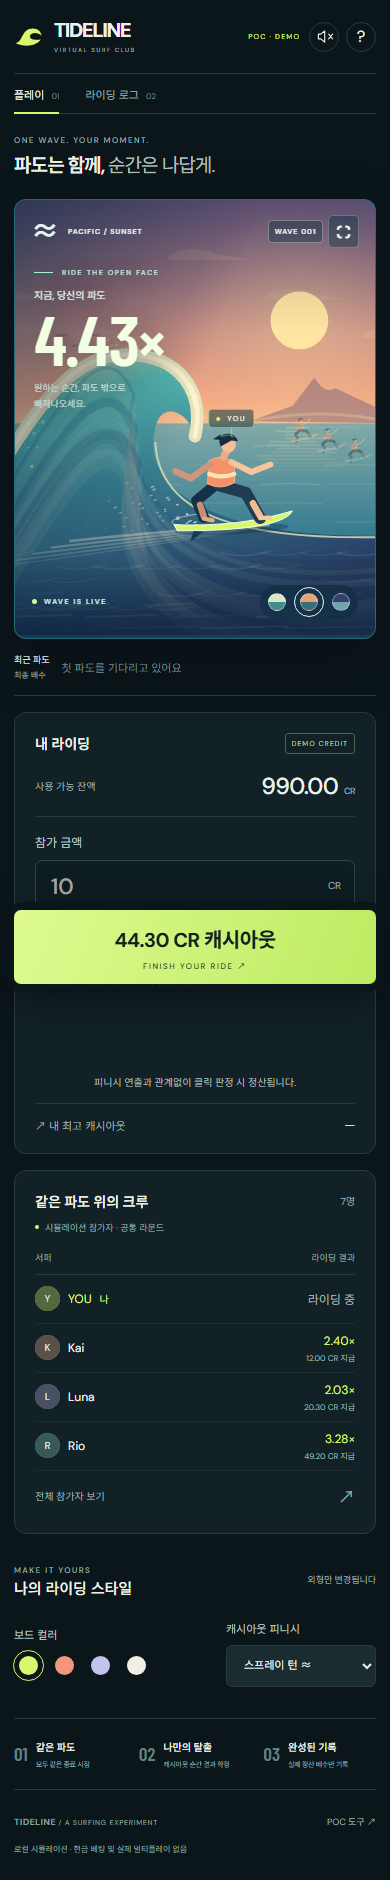
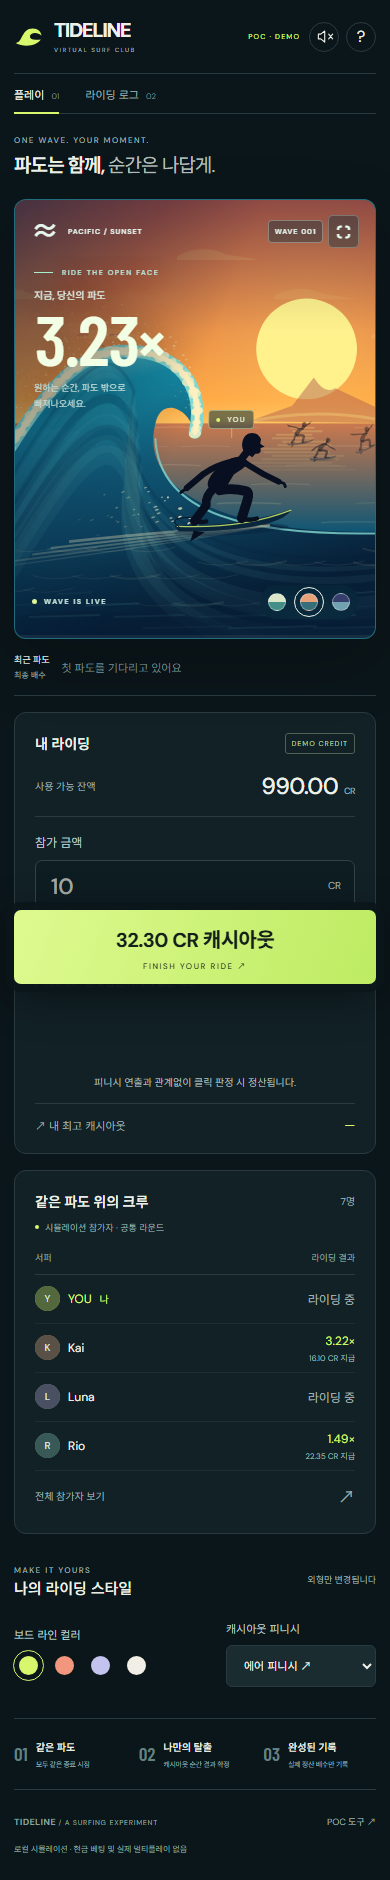
Style surfers as silhouettes against a vivid sunset

diff --git a/src/side-scroll-scene.js b/src/side-scroll-scene.js
@@ -4,7 +4,7 @@ const ease = x => { const t = clamp(x); return t * t * (3 - 2 * t); };
 const mod = (x, n) => ((x % n) + n) % n;
 const themes = {
   daybreak: { sky: '#486e83', haze: '#edc99c', sun: '#fff0bb', sea: '#57b5b4', crest: '#a4efd8', face: '#2cbdac', mid: '#137e8c', deep: '#073c57', foam: '#edffe9', island: '#486f79' },
-  sunset: { sky: '#795c83', haze: '#f4ab85', sun: '#ffe4a2', sea: '#83aaa8', crest: '#e4e6b9', face: '#57b9b0', mid: '#387e91', deep: '#273b62', foam: '#fff1d1', island: '#79647c' },
+  sunset: { sky: '#bc4c42', haze: '#ffa13c', sun: '#fff18c', sea: '#cb794e', crest: '#82d9d1', face: '#168ca5', mid: '#105674', deep: '#071d36', foam: '#fff1bf', island: '#b6624d' },
   moonlight: { sky: '#172a4b', haze: '#577c9b', sun: '#d9f7ec', sea: '#396d91', crest: '#95dfe3', face: '#3b9fbc', mid: '#235d86', deep: '#0d2849', foam: '#d7f8fa', island: '#2b4767' }
 };
 
@@ -13,7 +13,7 @@ export class OceanScene {
   constructor(canvas, label) {
     this.canvas = canvas; this.label = label; this.ctx = canvas.getContext('2d', { alpha: false });
     canvas.dataset.renderer = 'canvas';
-    this.theme = 'daybreak'; this.board = '#d8f76d'; this.finish = 'air';
+    this.theme = 'sunset'; this.board = '#d8f76d'; this.finish = 'air';
     this.cashoutAt = -Infinity; this.crashAt = -Infinity; this.crewFinishTimes = new Map();
     this.motionQuery = matchMedia('(prefers-reduced-motion: reduce)');
     this.reducedMotion = this.motionQuery.matches;
@@ -91,7 +91,7 @@ export class OceanScene {
   drawSky(p, t) {
     const c = this.ctx, w = this.width, h = this.height;
     c.fillStyle = this.gradient(0, 0, 0, h * .61, [[0, p.sky], [.75, p.haze], [1, p.sun]]); c.fillRect(0, 0, w, h);
-    const sunX = w * .79, sunY = h * .275, radius = h * .066;
+    const sunX = w * .81, sunY = h * .34, radius = h * (this.theme === 'sunset' ? .115 : .066);
     const glow = c.createRadialGradient(sunX, sunY, radius, sunX, sunY, radius * 4);
     glow.addColorStop(0, p.sun + '38'); glow.addColorStop(1, p.sun + '00'); c.fillStyle = glow; c.fillRect(0, 0, w, h * .6);
     this.ellipse(sunX, sunY, radius, radius, p.sun);
@@ -153,13 +153,20 @@ export class OceanScene {
     c.restore(); c.globalAlpha = 1;
     const crest = [['moveTo', -w * .10, h * .69], ['bezierCurveTo', w * .06, h * .455, w * .17, h * .34, w * .32, h * .35], ['bezierCurveTo', w * .45, h * .35, w * .53, h * .43, w * .50, h * .535]];
     c.lineCap = 'round'; this.path(crest, null, p.crest, h * .029); this.path(crest, null, p.foam, h * .011);
-    // Wind-blown crest spray. Seeded positions make captures deterministic.
-    for (let i = 0; i < 65; i++) {
-      const u = i / 64, age = mod(i * .371 + t * .48, 1);
-      const x = w * (.04 + u * .45) - age * w * .045;
-      const y = h * (.35 + .70 * (u - .62) ** 2) - Math.sin(age * Math.PI) * h * (.018 + i % 4 * .008);
-      c.globalAlpha = (1 - age) * .55;
-      this.ellipse(x, y, 1 + i % 3 * .6, .7 + i % 2, p.foam, -.3);
+    // Broken foam follows the crest; the brighter flying droplets catch the sunset.
+    const point = (a, b, d, e, u) => (1-u)**3*a + 3*(1-u)**2*u*b + 3*(1-u)*u*u*d + u**3*e;
+    for (let i = 0; i < 110; i++) {
+      const u = i < 75 ? i / 74 : (i - 75) / 34;
+      const xx = i < 75 ? point(-.10, .06, .17, .32, u) : point(.32, .45, .53, .50, u);
+      const yy = i < 75 ? point(.69, .455, .34, .35, u) : point(.35, .35, .43, .535, u);
+      const age = mod(i * .371 + t * .48, 1);
+      const size = 1.8 + i % 5 * .65;
+      c.globalAlpha = .72;
+      this.ellipse(w * xx, h * yy + Math.sin(i * 4.1) * 2, size * 1.4, size, p.foam, -.3);
+      for (let j = 0; j < 2; j++) {
+        c.globalAlpha = (1 - age) * (.60 - j * .15);
+        this.ellipse(w * xx - age * (14 + j * 16), h * yy - Math.sin(age * Math.PI) * (12 + i % 7 * 4 + j * 13), .6 + i % 3 * .45, .6 + i % 2 * .3, p.foam);
+      }
     }
     c.globalAlpha = .8;
     this.path([['moveTo', w * .39, h * .55], ['bezierCurveTo', w * .40, h * .72, w * .64, h * .775, w * 1.05, h * .765]], null, p.crest, 2);
@@ -202,29 +209,31 @@ export class OceanScene {
     c.restore();
   }
   drawSurfer(x, y, scale, board, t, style, progress) {
-    const c = this.ctx, air = style === 'air';
-    const angle = air ? -Math.sin(progress * Math.PI) * .65 : style === 'spray' ? Math.sin(progress * Math.PI) * .35 : -.035 + Math.sin(t * 1.6) * .018;
+    const c = this.ctx, air = style === 'air', ink = '#080f20';
+    const angle = air ? -Math.sin(progress * Math.PI) * .65 : style === 'spray' ? Math.sin(progress * Math.PI) * .35 : -.045 + Math.sin(t * 1.6) * .018;
     c.save(); c.translate(x, y); c.rotate(angle); c.scale(scale, scale); c.lineCap = 'round'; c.lineJoin = 'round';
-    if (!air) this.ellipse(0, 9, 53, 5, '#052c4455');
-    // Profile board: upturned nose, coloured rail, fin and trailing leash.
-    this.path([['moveTo', -53, 2], ['quadraticCurveTo', 5, 8, 57, -5], ['quadraticCurveTo', 46, 13, -50, 8], ['closePath']], board, '#ecffe4', 1);
-    this.path([['moveTo', -35, 9], ['lineTo', -39, 19], ['lineTo', -26, 10]], '#123c52');
-    this.path([['moveTo', -48, 4], ['quadraticCurveTo', -69, -3, -27, -7]], null, '#e0efe6aa', .8);
-    this.path([['moveTo', -11, -34], ['lineTo', -31, -19], ['lineTo', -25, -3]], null, '#153148', 10);
-    this.path([['moveTo', -9, -32], ['lineTo', 15, -24], ['lineTo', 27, 0]], null, '#203c51', 11);
-    this.path([['moveTo', -28, -15], ['lineTo', -25, -4]], null, '#c98d70', 6);
-    this.path([['moveTo', 21, -14], ['lineTo', 27, -2]], null, '#f1bc91', 6);
-    this.path([['moveTo', -25, -2], ['lineTo', -17, 0]], null, '#dfaa87', 4);
-    this.path([['moveTo', 27, 0], ['lineTo', 36, 0]], null, '#f6c7a0', 4);
-    this.path([['moveTo', -18, -55], ['quadraticCurveTo', -6, -62, 6, -52], ['lineTo', 5, -34], ['quadraticCurveTo', -8, -27, -20, -34], ['closePath']], '#f49169', '#ffc39a', .7);
-    this.path([['moveTo', -18, -43], ['quadraticCurveTo', -7, -38, 5, -42]], null, '#ffe4b4', 4);
-    this.path([['moveTo', -17, -52], ['lineTo', -35, air ? -61 : -40], ['lineTo', -49, air ? -70 : -47]], null, '#ce967b', 6);
-    this.path([['moveTo', 3, -53], ['lineTo', 21, air ? -56 : -43], ['lineTo', 39, air ? -69 : -49]], null, '#f8c49c', 5.5);
-    this.path([['moveTo', -4, -58], ['lineTo', 0, -65]], null, '#eaae87', 7);
-    this.ellipse(1, -70, 7, 8, '#f5c096', -.15);
-    this.path([['moveTo', -6, -68], ['bezierCurveTo', -12, -81, 7, -84, 10, -72], ['lineTo', 4, -73], ['lineTo', -2, -70], ['closePath']], '#172d40');
-    this.path([['moveTo', -5, -74], ['lineTo', -13, -75], ['lineTo', -6, -79]], '#172d40');
-    this.path([['moveTo', -4, -77], ['quadraticCurveTo', 2, -80, 6, -76]], null, '#688084', 1);
+    if (!air) this.ellipse(0, 9, 53, 5, '#051c3655');
+    // Board remains a dark shape. A thin coloured rail preserves customisation.
+    this.path([['moveTo', -53, 2], ['quadraticCurveTo', 9, 7, 57, -7], ['quadraticCurveTo', 44, 13, -49, 8], ['closePath']], '#0a263c');
+    c.globalAlpha *= .8;
+    this.path([['moveTo', -50, 3], ['quadraticCurveTo', 10, 9, 56, -6]], null, board, 1.15);
+    c.globalAlpha /= .8;
+    this.path([['moveTo', -35, 8], ['lineTo', -39, 18], ['lineTo', -25, 10]], ink);
+    this.path([['moveTo', -48, 4], ['quadraticCurveTo', -62, -7, -31, -4]], null, ink, .8);
+    // One silhouette: low hips, forward lean and asymmetric bent knees.
+    this.path([['moveTo', -13, -31], ['quadraticCurveTo', -23, -24, -22, -15], ['lineTo', -34, -1]], null, ink, 8);
+    this.path([['moveTo', -9, -28], ['quadraticCurveTo', 2, -30, 15, -26], ['quadraticCurveTo', 19, -25, 16, -17], ['lineTo', 10, -1]], null, ink, 9);
+    this.path([['moveTo', -34, -1], ['quadraticCurveTo', -28, 1, -23, 0]], null, ink, 4);
+    this.path([['moveTo', 10, -1], ['quadraticCurveTo', 17, 2, 24, 0]], null, ink, 4);
+    this.path([['moveTo', -19, -31], ['bezierCurveTo', -23, -40, -6, -53, 4, -57], ['quadraticCurveTo', 13, -61, 20, -52], ['quadraticCurveTo', 13, -46, 5, -42], ['lineTo', -3, -30], ['quadraticCurveTo', -7, -24, -19, -31], ['closePath']], ink);
+    // Trailing hand and forward reaching hand clearly show the direction of travel.
+    this.path([['moveTo', 4, -54], ['quadraticCurveTo', -12, air ? -62 : -51, -23, air ? -64 : -44], ['lineTo', -39, air ? -70 : -32]], null, ink, 5.8);
+    this.path([['moveTo', -39, air ? -70 : -32], ['lineTo', -45, air ? -75 : -28]], null, ink, 2.8);
+    this.path([['moveTo', 16, -52], ['quadraticCurveTo', 26, air ? -61 : -45, 32, air ? -66 : -41], ['lineTo', 46, air ? -72 : -33]], null, ink, 5.5);
+    this.path([['moveTo', 46, air ? -72 : -33], ['lineTo', 51, air ? -77 : -31], ['lineTo', 52, air ? -79 : -28]], null, ink, 2.6);
+    this.path([['moveTo', 13, -56], ['lineTo', 20, -64]], null, ink, 7);
+    // Nose, chin and hair are described by the outline, with no facial detailing.
+    this.path([['moveTo', 16, -62], ['bezierCurveTo', 12, -68, 15, -77, 21, -79], ['quadraticCurveTo', 29, -81, 32, -73], ['lineTo', 31, -69], ['lineTo', 35, -66], ['lineTo', 31, -65], ['quadraticCurveTo', 32, -59, 26, -60], ['lineTo', 23, -57], ['closePath']], ink);
     c.restore();
   }
 }

diff --git a/index.html b/index.html
@@ -31,7 +31,7 @@
               <div class="countdown-track"><div id="countdown-fill"></div></div>
             </section>
             <section class="wave-history" aria-label="최근 파도 종료 배수"><span>최근 파도 <small>최종 배수</small></span><div id="history-chips"><span class="empty-inline">첫 파도를 기다리고 있어요</span></div></section>
-            <section class="style-panel"><div class="section-title"><div><span class="eyebrow">MAKE IT YOURS</span><h2>나의 라이딩 스타일</h2></div><span class="cosmetic-note">외형만 변경됩니다</span></div><div class="style-options"><div class="board-picker"><span class="field-label">보드 컬러</span><div class="swatches" aria-label="보드 컬러"><button class="selected" data-board="#d8f76d" style="--swatch:#d8f76d" aria-label="라임 보드" aria-pressed="true"></button><button data-board="#f2977d" style="--swatch:#f2977d" aria-label="코랄 보드" aria-pressed="false"></button><button data-board="#c3c3ee" style="--swatch:#c3c3ee" aria-label="라벤더 보드" aria-pressed="false"></button><button data-board="#f1efe5" style="--swatch:#f1efe5" aria-label="크림 보드" aria-pressed="false"></button></div></div><div class="finish-picker"><label for="finish-select" class="field-label">캐시아웃 피니시</label><select id="finish-select"><option value="air">에어 피니시 ↗</option><option value="spray">스프레이 턴 ≈</option><option value="barrel">배럴 탈출 →</option></select></div><p class="style-description">파도 밖으로 나오는 순간,<br>당신의 스타일이 완성됩니다.</p></div></section>
+            <section class="style-panel"><div class="section-title"><div><span class="eyebrow">MAKE IT YOURS</span><h2>나의 라이딩 스타일</h2></div><span class="cosmetic-note">외형만 변경됩니다</span></div><div class="style-options"><div class="board-picker"><span class="field-label">보드 라인 컬러</span><div class="swatches" aria-label="보드 라인 컬러"><button class="selected" data-board="#d8f76d" style="--swatch:#d8f76d" aria-label="라임 보드" aria-pressed="true"></button><button data-board="#f2977d" style="--swatch:#f2977d" aria-label="코랄 보드" aria-pressed="false"></button><button data-board="#c3c3ee" style="--swatch:#c3c3ee" aria-label="라벤더 보드" aria-pressed="false"></button><button data-board="#f1efe5" style="--swatch:#f1efe5" aria-label="크림 보드" aria-pressed="false"></button></div></div><div class="finish-picker"><label for="finish-select" class="field-label">캐시아웃 피니시</label><select id="finish-select"><option value="air">에어 피니시 ↗</option><option value="spray">스프레이 턴 ≈</option><option value="barrel">배럴 탈출 →</option></select></div><p class="style-description">파도 밖으로 나오는 순간,<br>당신의 스타일이 완성됩니다.</p></div></section>
           </div>
           <aside class="control-column" aria-label="라이딩 조작 및 참가자">
             <section class="bet-panel"><div class="panel-heading"><h2>내 라이딩</h2><span class="outline-badge">DEMO CREDIT</span></div><div class="balance-row"><span>사용 가능 잔액</span><strong><span id="balance">1,000.00</span><small>CR</small></strong></div><label class="field-label" for="bet-amount">참가 금액</label><div class="amount-input"><input id="bet-amount" type="number" inputmode="decimal" min="1" max="100" step="1" value="10" aria-describedby="bet-hint"><span>CR</span></div><div class="amount-presets"><button data-amount="5">5</button><button data-amount="10" class="selected">10</button><button data-amount="25">25</button><button data-amount="50">50</button></div><p id="bet-hint" class="input-hint">1–100 CR · 실제 금전 가치가 없는 데모</p><button id="ride-button" class="primary-button"><span id="ride-action">파도에 합류하기</span><span id="ride-action-detail">JOIN THE WAVE ↗</span></button><p id="bet-feedback" class="bet-feedback" role="status">참가 후 출발 전까지 취소할 수 있어요.</p><div class="personal-best-line"><span>↗ 내 최고 캐시아웃</span><strong id="best-inline">—</strong></div></section>

diff --git a/src/main.js b/src/main.js
@@ -112,7 +112,8 @@ document.querySelectorAll('[data-theme]').forEach(button => button.addEventListe
 document.querySelectorAll('[data-board]').forEach(button => button.addEventListener('click', () => setBoard(button.dataset.board)));
 $('scene-focus').addEventListener('click', () => { const expanded = document.body.classList.toggle('cinema-view'); $('scene-focus').setAttribute('aria-pressed', expanded); $('scene-focus').setAttribute('aria-label', expanded ? '장면 축소' : '장면 확대'); $('scene-focus').querySelector('span').textContent = expanded ? '기본 보기' : '몰입 보기'; });
 $('finish-select').addEventListener('change', event => { scene.finish = event.target.value; save(); });
-if (['daybreak', 'sunset', 'moonlight'].includes(saved.theme)) setTheme(saved.theme);
+const requestedTheme = new URLSearchParams(location.search).get('theme');
+setTheme(['daybreak', 'sunset', 'moonlight'].includes(requestedTheme) ? requestedTheme : ['daybreak', 'sunset', 'moonlight'].includes(saved.theme) ? saved.theme : 'sunset');
 if (['#d8f76d', '#f2977d', '#c3c3ee', '#f1efe5'].includes(saved.board)) setBoard(saved.board);
 if (['air', 'spray', 'barrel'].includes(saved.finish)) { scene.finish = saved.finish; $('finish-select').value = saved.finish; }
 $('sound-button').addEventListener('click', async () => {

diff --git a/doc/side-scrolling-scene.md b/doc/side-scrolling-scene.md
@@ -4,7 +4,7 @@
 
 ## 화면 방향
 
-서퍼를 옆에서 바라보며 오른쪽으로 달리는 구도다. 왼쪽에서 말려드는 파도, 중앙의 큰 서퍼, 오른쪽의 열린 수평선이 진행 방향을 보여준다. 하늘·섬·구름·먼 수면·가까운 물결·보드 뒤 물보라를 겹쳐 거리감을 만든다. 구름은 느리게, 수면과 앞쪽 물결은 빠르게 왼쪽으로 이동한다. 배수와 조작부는 고정한다.
+서퍼를 옆에서 바라보며 오른쪽으로 달리는 구도다. 왼쪽에서 말려드는 파도, 중앙의 짙은 실루엣 서퍼, 오른쪽의 열린 수평선이 진행 방향을 보여준다. 하늘·섬·구름·먼 수면·가까운 물결·보드 뒤 물보라를 겹쳐 거리감을 만든다. 구름은 느리게, 수면과 앞쪽 물결은 빠르게 왼쪽으로 이동한다. 배수와 조작부는 고정한다.
 
 데스크톱 기본 장면은 510~530px, 좁은 모바일은 440px 높이다. 몰입 보기로 확대할 수 있다. 모바일은 서퍼를 화면 안에 유지하고 캐시아웃 버튼은 기존 하단 고정 동작을 보존한다.
 
@@ -37,3 +37,7 @@
 ## 검수
 
 `npm run check`, `npm run test:qa`, `npm run test:visual`, `npm run test:graphics`, `npm run test:browser`로 검사한다. 정산 단위 테스트 21개, Chromium·Firefox·WebKit의 7개 화면 폭, 세 테마·피니시, 모션 감소, WebGL 차단 환경, 장면 확대·축소 중 정산 보존, 비공개 결과 접근 금지를 포함한다. 캡처는 `tests/artifacts/visual/`, `tests/artifacts/side-scroll/`에 생성한다. 실제 모바일 기기의 프레임률 측정은 별도 후속 검수다.
+
+## 실루엣 아트 방향
+
+2026-10-15 추가 참고 이미지에 따라 피부·의상·얼굴의 내부 묘사를 제거하고 낮게 웅크린 측면 실루엣으로 바꿨다. 보드는 짙은 색으로 통일하되 가장자리의 얇은 라인으로 기존 컬러 선택을 유지한다. 노을은 주황색 하늘과 큰 태양, 짙은 청록색 파도, 역광을 받는 밝은 포말의 대비로 구성한다. 첫 방문 기본 테마는 노을이며 저장된 테마는 유지한다. `?theme=sunset` 링크로 노을을 선택해 열 수 있다. 제공 사진은 방향 참고용이며 파일을 게임에 포함하지 않는다.
